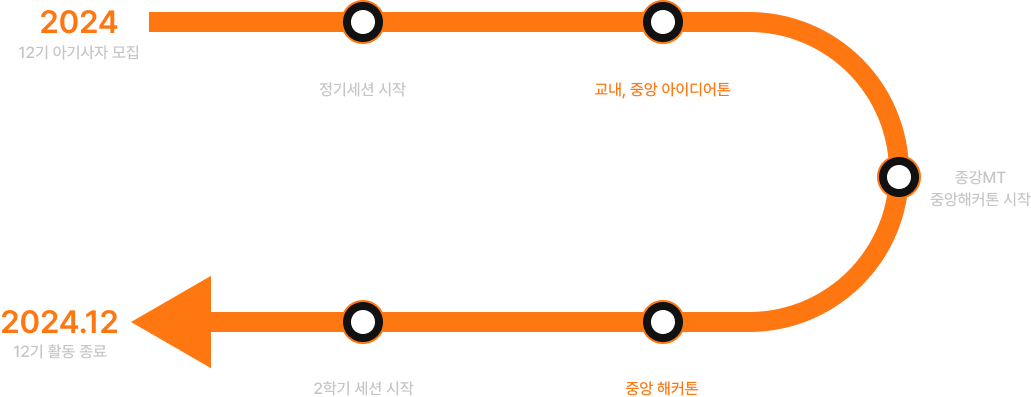
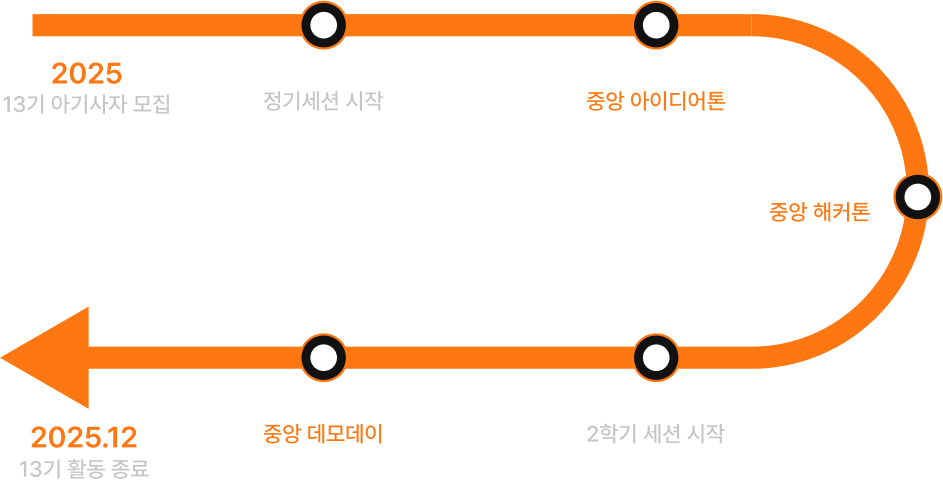
커리큘럼 이미지 2025로 바꿈

diff --git a/src/activites/main_activites/session_activites.jsx b/src/activites/main_activites/session_activites.jsx
@@ -6,15 +6,15 @@ import Footer from "../../default/footer";
 
 function ActivitesSession() {
   const title = "SESSION";
-  const subtitle = "멋쟁이사자처럼 at 국민대 12기 세션 안내";
-  const description = `멋쟁이사자처럼 국민대학교 12기 세션은 디자인 트랙과 개발 트랙 2가지로 나뉘어 진행됩니다`;
+  const subtitle = "멋쟁이사자처럼 at 국민대 13기 세션 안내";
+  const description = `멋쟁이사자처럼 국민대학교 13기 세션은 디자인 트랙과 개발 트랙 2가지로 나뉘어 진행됩니다`;
 
   const sessionData = [
     {
       title: "개발 세션",
       trackTitle: "FRONTEND | BACKEND TRACK",
       description:
-        "디자인 프로세스를 경험하고 서비스 기획에 필요한 디자인 스킬을 학습합니다. 개발자와의 원활한 의사소통을 위해 협업 룰을 익히고 서비스의 퀄리티를 높일 수 있는 심화된 디자인 세션을 진행합니다.",
+        " 프론트엔드 트랙과 백엔드 트랙으로 운영되며 각 분야에 필요한 핵심 역량을 체계적으로 학습합니다. 트랙별 세션은 분리되어 진행되지만, 모든 회원은 자유롭게 다른 파트의 수업을 들을 수 있으며 원활한 학습을 위해 주 2회 출석이 필수입니다.",
       sessionArray: ["html, css, JS", "Django", "React", "git", "aws"], // 개발 세션에 해당하는 배열
     },
     {
@@ -36,7 +36,7 @@ function ActivitesSession() {
   return (
     <div id="page_container">
       <Subtitle title={title} subtitle={subtitle} P={description} />
-      <div className="activites_main session_main "> 
+      <div className="activites_main session_main ">
         <section className="atv-sections-container">
           {sessionData.map((session, index) => (
             <div className="atv-section" key={index}>
@@ -62,18 +62,22 @@ function ActivitesSession() {
         <section id="session-footer" className="active-common-footer">
           {sessionFooterData.map((footerItem, idx) => (
             <div className="session-footer_btn" key={idx}>
-            {["주 2회 세션 진행", "강의실 대여 예정"].includes(footerItem.title) ? (
-              <h3 className="footer-title-large">{footerItem.title}</h3>
+              {["주 2회 세션 진행", "강의실 대여 예정"].includes(
+                footerItem.title
+              ) ? (
+                <h3 className="footer-title-large">{footerItem.title}</h3>
               ) : (
-              <h4 className="footer-title-small">{footerItem.title}</h4>
-            )}
+                <h4 className="footer-title-small">{footerItem.title}</h4>
+              )}
 
-            {["*일부 세션 줌 가능", "*변동 가능"].includes(footerItem.subtitle) ? (
-              <p className="footer-subtext">{footerItem.subtitle}</p>
+              {["*일부 세션 줌 가능", "*변동 가능"].includes(
+                footerItem.subtitle
+              ) ? (
+                <p className="footer-subtext">{footerItem.subtitle}</p>
               ) : (
-              <h4 className="footer-subtitle">{footerItem.subtitle}</h4>
-            )}
-          </div>
+                <h4 className="footer-subtitle">{footerItem.subtitle}</h4>
+              )}
+            </div>
           ))}
         </section>
       </div>

diff --git a/src/activites/activites.jsx b/src/activites/activites.jsx
@@ -19,11 +19,11 @@ function Activites() {
   const subtitle = "멋쟁이사자처럼 at 국민대의 커리큘럼과 활동들을 소개합니다";
   const buttons = [
     {
-      title: "12기 교육 일정",
+      title: "13기 교육 일정",
       detail: "CURRICULUM",
     },
     {
-      title: "12기 세션안내",
+      title: "13기 세션안내",
       detail: "SESSION",
     } /*
     {
